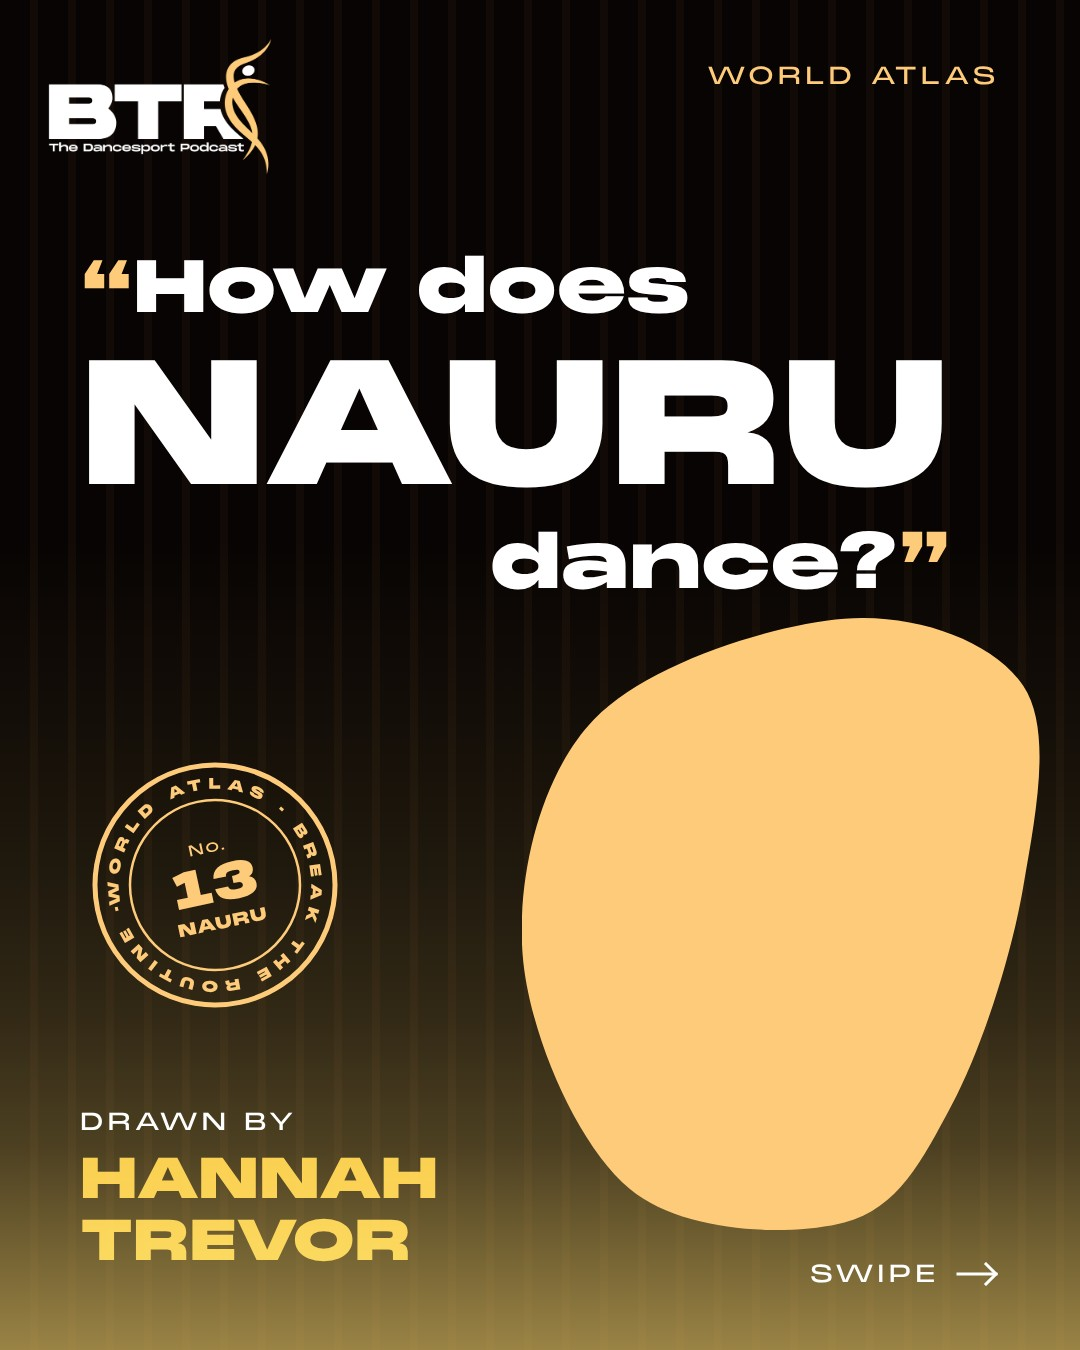
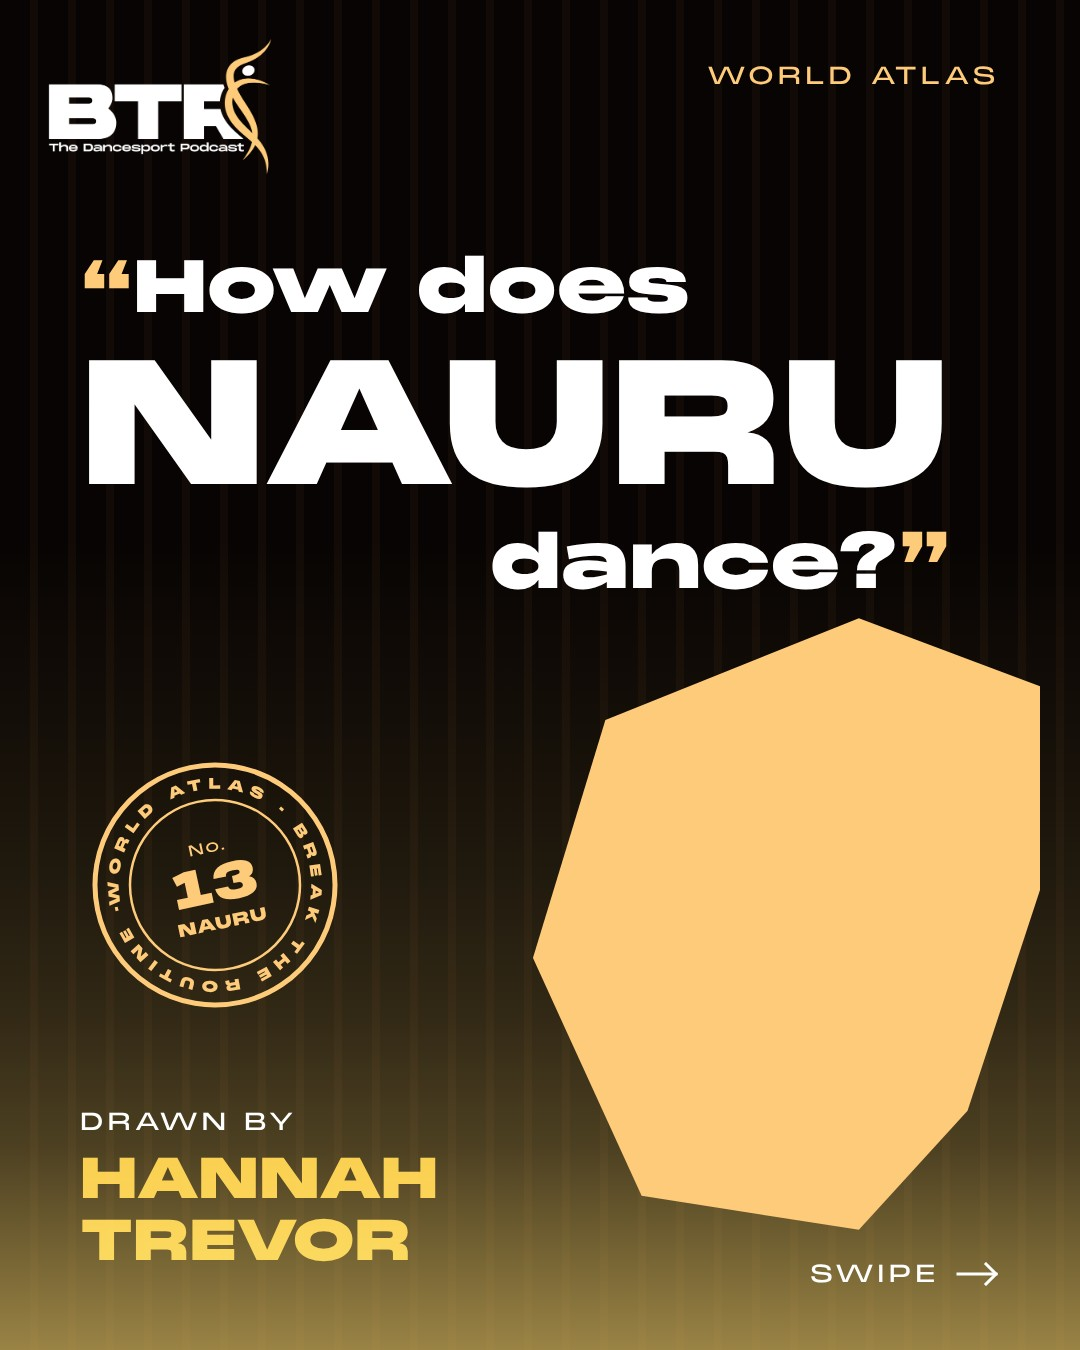
World Atlas No. 13: Nauru, use the unsmoothed outline; forbid rounded outlines
Claude-Session: https://claude.ai/code/session_01SsgDrEgAwrGYGzpQoh4BYF

diff --git a/pipeline/PIPELINE.md b/pipeline/PIPELINE.md
@@ -64,3 +64,4 @@ One message: country + guest + No., the two dates/times, the music to add, the t
 - Publish automatically (always `autoPublish: false`).
 - Commit fonts or anything other than images meant to be published to the public repo.
 - Invent a fact, a country or a guest name.
+- Round or smooth a country outline: rounded shapes are forbidden. Use the outline from `atlas_map.mjs` as is, even when it is coarse (small islands).
